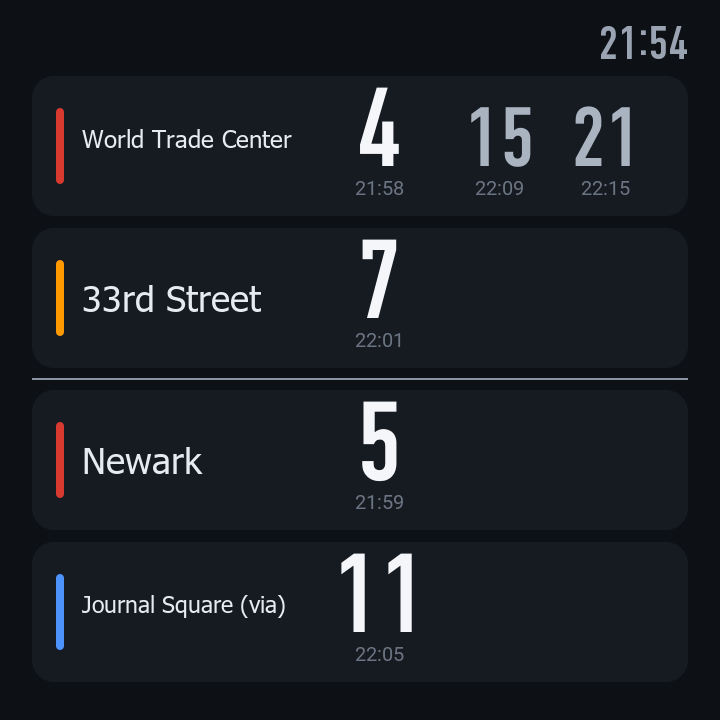
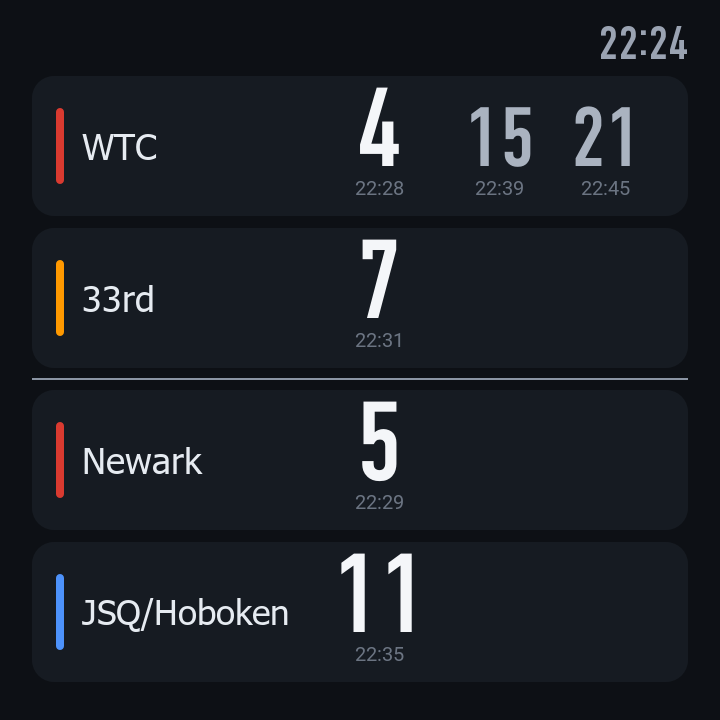
path: Show short station names on the cards
Full headsigns such as "World Trade Center" crowd the card and shrink
the text, and trains via Hoboken only said "(via)" without naming the
stop. Abbreviate the long names (WTC, 33rd, JSQ) and name the via
station, so the cards read "WTC" and "JSQ/Hoboken" again.

diff --git a/device/open-cgs2/ui/components/path/PathBoard.qml b/device/open-cgs2/ui/components/path/PathBoard.qml
@@ -36,7 +36,7 @@ Item {
                 if (t.dir !== dir || seen[t.headsign])
                     continue;
                 seen[t.headsign] = true;
-                out.push({ headsign: t.headsign, label: t.headsign, color: t.color, y: slots[dir * 2 + n] });
+                out.push({ headsign: t.headsign, label: shortName(t.headsign), color: t.color, y: slots[dir * 2 + n] });
                 n++;
             }
         }
@@ -52,6 +52,12 @@ Item {
         { match: "journal square", stops: { "33S": 0, "23S": 102, "14S": 211, "09S": 271, CHR: 391, HOB: 1188, NEW: 1410, GRV: 1650, JSQ: 1927 } },
         { match: "hoboken", stops: { WTC: 0, EXP: 222, NEW: 518, HOB: 740 } }
     ]
+
+    readonly property var names: ({ "World Trade Center": "WTC", "33rd Street": "33rd", "Journal Square": "JSQ" })
+
+    function shortName(name) {
+        return names[name] || name;
+    }
 
     function route(headSign) {
         var h = headSign.toLowerCase();
@@ -72,7 +78,7 @@ Item {
                     for (var j = 0; j < dests.length; j++)
                         for (var k = 0; k < dests[j].messages.length; k++) {
                             var m = dests[j].messages[k];
-                            at.push({ name: m.headSign, headsign: m.headSign.replace(/ via .*/, ""), via: / via /.test(m.headSign), dir: dests[j].label === "ToNY" ? 0 : 1,
+                            at.push({ name: m.headSign, headsign: m.headSign.replace(/ via .*/, ""), via: m.headSign.split(" via ")[1] || "", dir: dests[j].label === "ToNY" ? 0 : 1,
                                       color: "#" + m.lineColor.split(",")[0], "in": parseInt(m.secondsToArrival) });
                         }
                 }
@@ -160,7 +166,7 @@ Item {
                 x: 50
                 width: 210
                 anchors.verticalCenter: parent.verticalCenter
-                text: card.line.label + (card.times.length && card.times[0].via ? " (via)" : "")
+                text: card.line.label + (card.times.length && card.times[0].via ? "/" + board.shortName(card.times[0].via) : "")
                 fontSizeMode: Text.HorizontalFit
                 minimumPixelSize: 22
                 font.family: board.fontMedium
